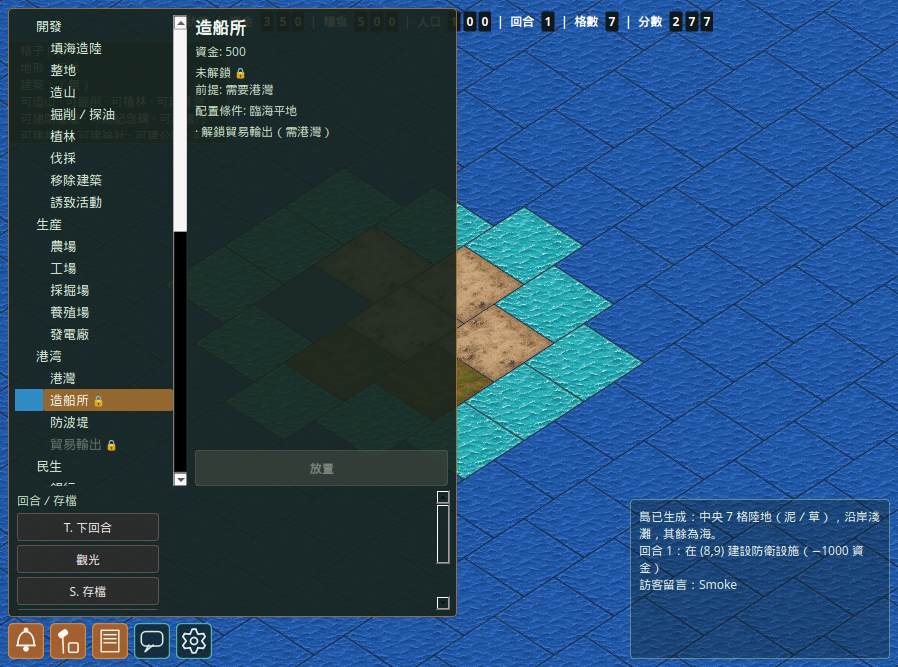
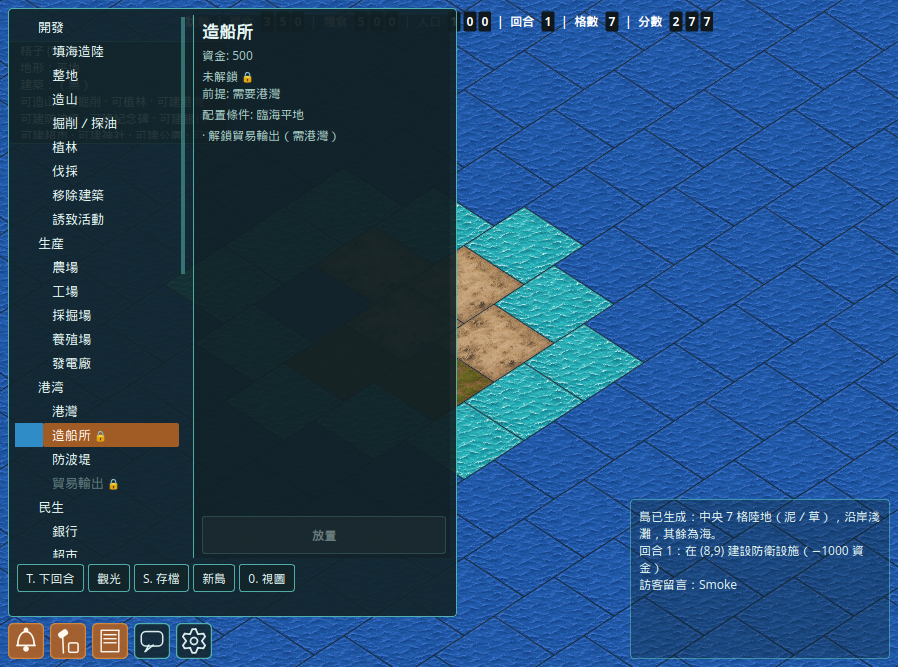
箱庭島: restore deep-teal glass drawer chrome on tree UI
Keep tree+detail structure from #84, but restyle the drawer to match
the icon-bar HUD (deep teal glass, cyan border, orange accent) instead
of the olive/amber panel that made the full-height browse pane look
muddy. Footer session chips use the same teal glass, not calcAction gray.

Changed region(s): [[0.0, 0.0, 0.5301, 0.9295], [0.4677, 0.8996, 0.4989, 0.9295], [0.343, 0.7796, 0.3742, 0.8096]]

diff --git a/hakoniwa/dialog.py b/hakoniwa/dialog.py
@@ -128,8 +128,18 @@ from .user_art import configure_user_art
 from .view import HakoniwaMapWidget
 
 # Overlay frames (action log / guestbook): 70% transparent ≈ 30% opaque.
-_OVERLAY_BG = "rgba(12, 28, 18, 77)"
-_OVERLAY_BORDER = "rgba(150, 200, 150, 130)"
+# Align with icon-bar teal glass (hud_icons._ICON_*), not olive/amber.
+_OVERLAY_BG = "rgba(14, 32, 36, 77)"
+_OVERLAY_BORDER = "rgba(90, 200, 190, 140)"
+
+# Drawer / icon-bar shared HUD chrome (deep teal glass · cyan border · orange).
+_DRAWER_BG = "rgba(18, 36, 40, 230)"
+_DRAWER_BORDER = "rgba(90, 200, 190, 210)"
+_ACCENT_BG = "rgba(176, 96, 36, 230)"
+_ACCENT_BG_HOVER = "rgba(196, 110, 42, 245)"
+_ACCENT_BORDER = "rgba(220, 140, 60, 230)"
+_HUD_TEXT = "#e6f8f5"
+_HUD_TEXT_DIM = "#a8d0c8"
 
 # In-map HUD styles (status / tile / log / guestbook / tools).
 # Status strip: fully frameless over the map (no green box); digit cells
@@ -151,95 +161,141 @@ QLabel#hakoniwaHudStatusPlain {{
     font-weight: bold;
 }}
 QLabel#hakoniwaHudTile {{
-    background-color: rgba(16, 40, 28, 170);
-    color: #d0ecd0;
-    border: 1px solid rgba(70, 170, 100, 170);
+    background-color: rgba(16, 40, 44, 170);
+    color: {_HUD_TEXT};
+    border: 1px solid {_DRAWER_BORDER};
     border-radius: 3px;
     padding: 4px 8px;
 }}
 QPlainTextEdit#hakoniwaHudLog,
 QPlainTextEdit#hakoniwaHudGuestbook {{
     background-color: {_OVERLAY_BG};
-    color: #e8f5e8;
+    color: {_HUD_TEXT};
     border: 1px solid {_OVERLAY_BORDER};
     border-radius: 4px;
     padding: 4px;
-    selection-background-color: #3d5a80;
+    selection-background-color: rgba(176, 96, 36, 180);
 }}
 QFrame#hakoniwaHudGuestbookFrame {{
     background-color: {_OVERLAY_BG};
     border: 1px solid {_OVERLAY_BORDER};
     border-radius: 4px;
 }}
+/* Tools／settings drawers: same deep-teal glass + cyan as icon bar. */
 QFrame#hakoniwaToolsDrawer,
 QFrame#hakoniwaSettingsDrawer {{
-    background-color: rgba(24, 36, 28, 230);
-    border: 1px solid rgba(180, 120, 50, 200);
+    background-color: {_DRAWER_BG};
+    border: 1px solid {_DRAWER_BORDER};
     border-radius: 4px;
 }}
 QLabel#hakoniwaHudCaption {{
-    color: #c8e0c8;
+    color: {_HUD_TEXT_DIM};
     background: transparent;
     border: none;
     padding: 0;
 }}
 QLineEdit#hakoniwaHudInput {{
-    background-color: rgba(30, 40, 30, 180);
-    color: #f0f0f0;
-    border: 1px solid rgba(120, 160, 120, 160);
+    background-color: rgba(14, 28, 32, 180);
+    color: {_HUD_TEXT};
+    border: 1px solid {_DRAWER_BORDER};
     border-radius: 3px;
     padding: 2px 4px;
 }}
-/* Building tree drawer — text tree + detail; match existing HUD greens/amber. */
+/* Building tree — text only; orange select like icon-bar active. */
 QTreeWidget#hakoniwaBuildTree {{
     background: transparent;
-    color: #d8ecd8;
+    color: {_HUD_TEXT};
     border: none;
     outline: none;
     font-size: 10pt;
     show-decoration-selected: 1;
 }}
 QTreeWidget#hakoniwaBuildTree::item {{
-    padding: 2px 4px;
+    padding: 3px 6px;
     border-radius: 2px;
 }}
 QTreeWidget#hakoniwaBuildTree::item:selected {{
-    background-color: rgba(180, 120, 50, 200);
-    color: #fff8e8;
+    background-color: {_ACCENT_BG};
+    color: #fff8f0;
+}}
+QTreeWidget#hakoniwaBuildTree::item:hover:!selected {{
+    background-color: rgba(28, 52, 56, 180);
 }}
 QTreeWidget#hakoniwaBuildTree::item:disabled {{
-    color: rgba(160, 180, 160, 120);
+    color: rgba(140, 170, 168, 140);
 }}
 QTreeWidget#hakoniwaBuildTree::branch {{
     background: transparent;
+    border-image: none;
+}}
+QTreeWidget#hakoniwaBuildTree::branch:has-children:!has-siblings:closed,
+QTreeWidget#hakoniwaBuildTree::branch:closed:has-children:has-siblings {{
+    border-image: none;
+    image: none;
+}}
+QTreeWidget#hakoniwaBuildTree::branch:open:has-children:!has-siblings,
+QTreeWidget#hakoniwaBuildTree::branch:open:has-children:has-siblings {{
+    border-image: none;
+    image: none;
+}}
+QScrollBar:vertical {{
+    background: transparent;
+    width: 8px;
+    margin: 2px;
+}}
+QScrollBar::handle:vertical {{
+    background: rgba(90, 200, 190, 120);
+    border-radius: 3px;
+    min-height: 24px;
+}}
+QScrollBar::add-line:vertical, QScrollBar::sub-line:vertical {{
+    height: 0;
+}}
+QFrame#hakoniwaBuildDetailPane {{
+    background-color: rgba(14, 28, 32, 120);
+    border: none;
+    border-left: 1px solid {_DRAWER_BORDER};
 }}
 QLabel#hakoniwaBuildDetailTitle {{
-    color: #f0f8f0;
+    color: {_HUD_TEXT};
     font-size: 13pt;
     font-weight: bold;
     background: transparent;
     border: none;
 }}
 QLabel#hakoniwaBuildDetailBody {{
-    color: #c8e0c8;
+    color: {_HUD_TEXT_DIM};
     background: transparent;
     border: none;
 }}
 QPushButton#hakoniwaBuildPlace {{
-    background-color: rgba(180, 120, 50, 220);
-    color: #fff8e8;
-    border: 1px solid rgba(220, 160, 70, 200);
+    background-color: {_ACCENT_BG};
+    color: #fff8f0;
+    border: 1px solid {_ACCENT_BORDER};
     border-radius: 3px;
-    min-height: 28px;
+    min-height: 30px;
     font-weight: bold;
 }}
 QPushButton#hakoniwaBuildPlace:disabled {{
-    background-color: rgba(60, 70, 60, 180);
-    color: rgba(180, 190, 180, 140);
-    border: 1px solid rgba(100, 110, 100, 120);
+    background-color: rgba(28, 44, 48, 180);
+    color: rgba(168, 190, 188, 140);
+    border: 1px solid rgba(70, 110, 108, 120);
 }}
 QPushButton#hakoniwaBuildPlace:hover:!disabled {{
-    background-color: rgba(200, 140, 60, 240);
+    background-color: {_ACCENT_BG_HOVER};
+}}
+/* Drawer footer actions — teal glass chips, not calcAction gray. */
+QPushButton#hakoniwaDrawerAction {{
+    background-color: rgba(18, 36, 40, 210);
+    color: {_HUD_TEXT};
+    border: 1px solid {_DRAWER_BORDER};
+    border-radius: 3px;
+    min-height: 22px;
+    padding: 2px 8px;
+    font-size: 9pt;
+}}
+QPushButton#hakoniwaDrawerAction:hover {{
+    background-color: rgba(28, 52, 56, 230);
 }}
 """
 
@@ -319,9 +375,10 @@ class HakoniwaMapHud(QWidget):
         )
         browse_row.addWidget(self.build_tree, stretch=2)
 
-        detail = QWidget()
+        detail = QFrame()
+        detail.setObjectName("hakoniwaBuildDetailPane")
         detail_lay = QVBoxLayout(detail)
-        detail_lay.setContentsMargins(2, 0, 2, 0)
+        detail_lay.setContentsMargins(8, 4, 4, 4)
         detail_lay.setSpacing(4)
         self.build_detail_title = QLabel("選擇建築／指令")
         self.build_detail_title.setObjectName("hakoniwaBuildDetailTitle")
@@ -363,11 +420,11 @@ class HakoniwaMapHud(QWidget):
         drawer_scroll.setStyleSheet(
             "QScrollArea { background: transparent; border: none; }"
         )
-        drawer_scroll.setMaximumHeight(120)
+        drawer_scroll.setMaximumHeight(48)
         self.tools_body = QWidget()
         self.tools_layout = QVBoxLayout(self.tools_body)
         self.tools_layout.setContentsMargins(2, 2, 2, 2)
-        self.tools_layout.setSpacing(4)
+        self.tools_layout.setSpacing(2)
         drawer_scroll.setWidget(self.tools_body)
         drawer_outer.addWidget(drawer_scroll, stretch=0)
 
@@ -972,38 +1029,42 @@ class HakoniwaIslandDialog(QDialog):
         self.hud.build_place_btn.clicked.connect(self._on_build_place_clicked)
 
         tools_lay = self.hud.tools_layout
-        tools_cap = QLabel("回合／存檔")
-        tools_cap.setObjectName("hakoniwaHudCaption")
-        tools_lay.addWidget(tools_cap)
+        # Compact horizontal chip row (teal glass) — avoids calcAction gray stack.
+        footer = QHBoxLayout()
+        footer.setContentsMargins(0, 0, 0, 0)
+        footer.setSpacing(4)
 
         self.turn_btn = QPushButton("T. 下回合")
-        self.turn_btn.setObjectName("calcAction")
+        self.turn_btn.setObjectName("hakoniwaDrawerAction")
         self.turn_btn.setToolTip("結算本回合產糧／產資（快捷鍵 T）")
         self.turn_btn.clicked.connect(self._next_turn)
-        tools_lay.addWidget(self.turn_btn)
+        footer.addWidget(self.turn_btn)
 
         tour_btn = QPushButton("觀光")
-        tour_btn.setObjectName("calcAction")
+        tour_btn.setObjectName("hakoniwaDrawerAction")
         tour_btn.setToolTip("瀏覽諸島地圖（唯讀）；留言板仍可用")
         tour_btn.clicked.connect(self._open_tourism)
-        tools_lay.addWidget(tour_btn)
+        footer.addWidget(tour_btn)
 
         save_btn = QPushButton("S. 存檔")
-        save_btn.setObjectName("calcAction")
+        save_btn.setObjectName("hakoniwaDrawerAction")
         save_btn.setToolTip("寫入本機 JSON（快捷鍵 S）")
         save_btn.clicked.connect(self._save)
-        tools_lay.addWidget(save_btn)
+        footer.addWidget(save_btn)
 
-        new_btn = QPushButton("新島（重置）")
-        new_btn.setObjectName("calcAction")
+        new_btn = QPushButton("新島")
+        new_btn.setObjectName("hakoniwaDrawerAction")
+        new_btn.setToolTip("新島（重置）")
         new_btn.clicked.connect(self._new_island)
-        tools_lay.addWidget(new_btn)
+        footer.addWidget(new_btn)
 
-        reset_view_btn = QPushButton("0. 重置視圖")
-        reset_view_btn.setObjectName("calcAction")
+        reset_view_btn = QPushButton("0. 視圖")
+        reset_view_btn.setObjectName("hakoniwaDrawerAction")
         reset_view_btn.setToolTip("縮放／平移回到預設（快捷鍵 0）")
         reset_view_btn.clicked.connect(self.map.reset_view)
-        tools_lay.addWidget(reset_view_btn)
+        footer.addWidget(reset_view_btn)
+        footer.addStretch(1)
+        tools_lay.addLayout(footer)
         tools_lay.addStretch(1)
 
         # Server connection lives in the 設定 drawer (was under 工具／設定).
@@ -1021,11 +1082,11 @@ class HakoniwaIslandDialog(QDialog):
         sync_row = QHBoxLayout()
         sync_row.setSpacing(4)
         connect_btn = QPushButton("連線")
-        connect_btn.setObjectName("calcAction")
+        connect_btn.setObjectName("hakoniwaDrawerAction")
         connect_btn.clicked.connect(self._connect_server)
         sync_row.addWidget(connect_btn)
         local_btn = QPushButton("本機")
-        local_btn.setObjectName("calcAction")
+        local_btn.setObjectName("hakoniwaDrawerAction")
         local_btn.clicked.connect(self._use_local)
         sync_row.addWidget(local_btn)
         settings_lay.addLayout(sync_row)
@@ -1231,7 +1292,7 @@ class HakoniwaIslandDialog(QDialog):
                 item.setToolTip(0, base)
             else:
                 item.setText(0, base + lock)
-                item.setForeground(0, QBrush(QColor(140, 160, 140, 160)))
+                item.setForeground(0, QBrush(QColor(140, 170, 168, 160)))
                 item.setData(0, Qt.ItemDataRole.UserRole + 1, True)
                 tip = f"{base}\n鎖定：{reason}" if reason else f"{base}\n鎖定"
                 item.setToolTip(0, tip)
